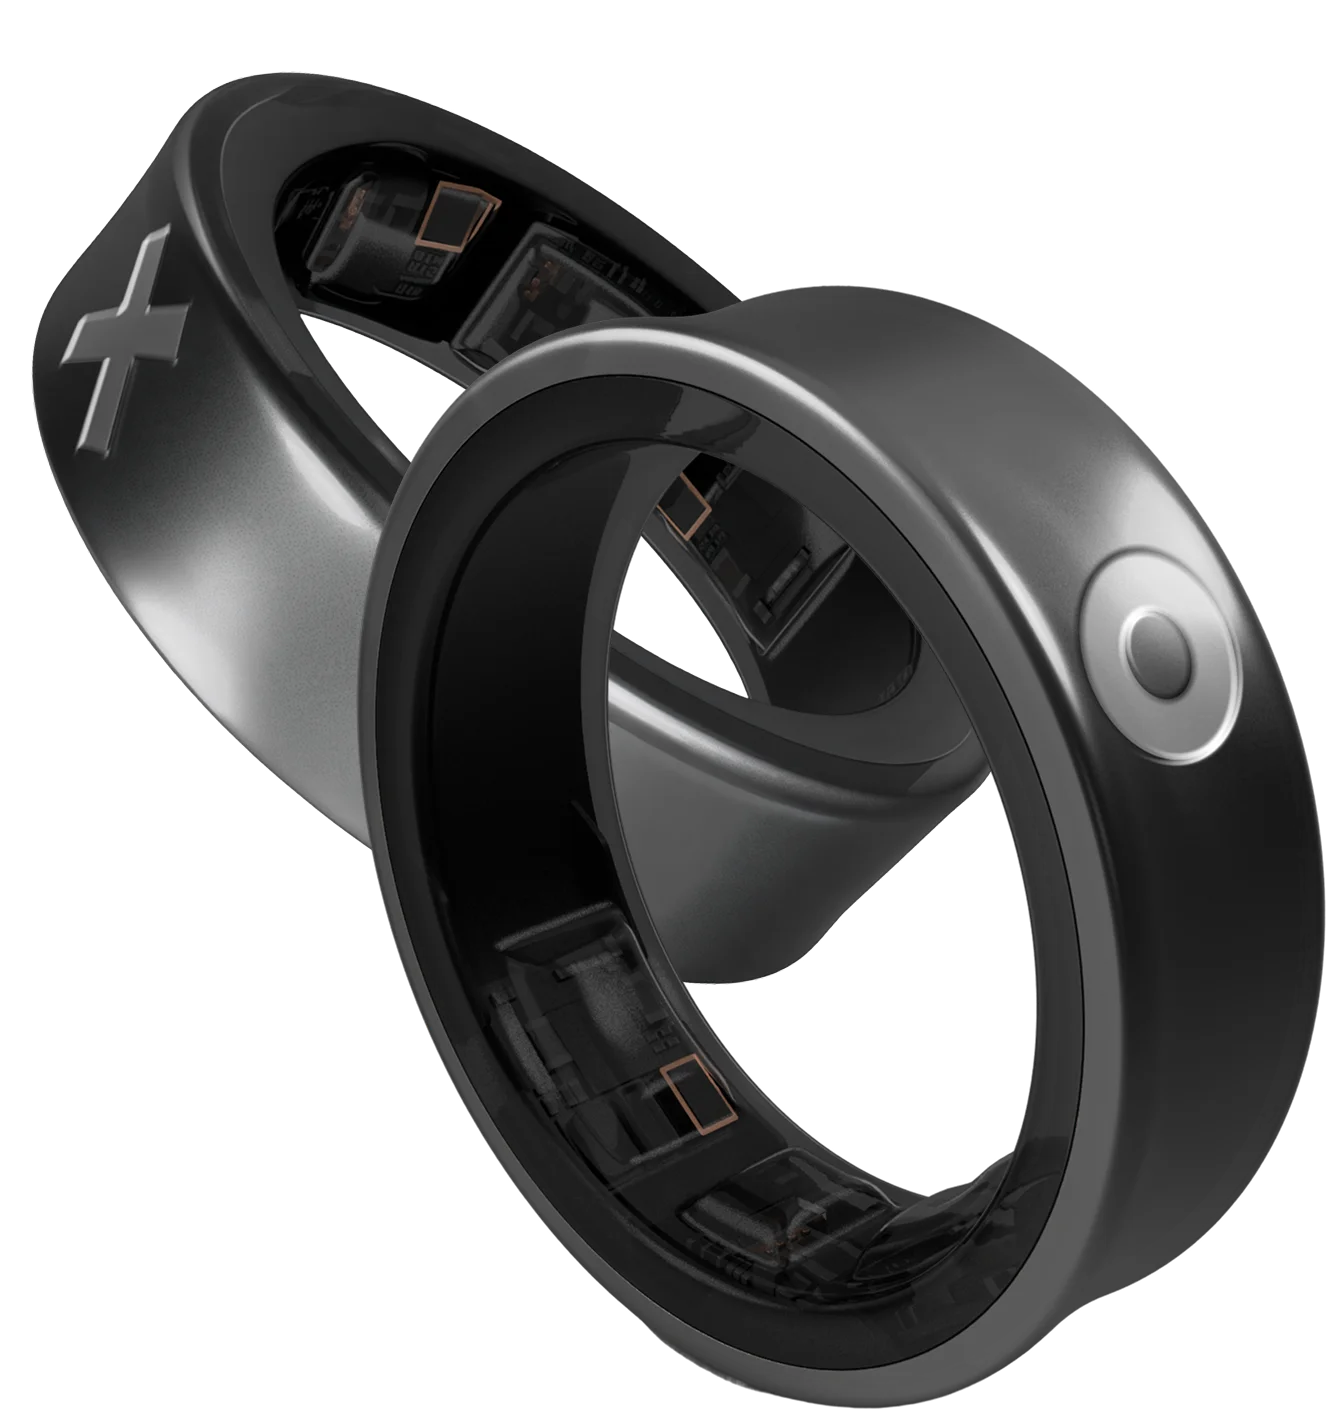
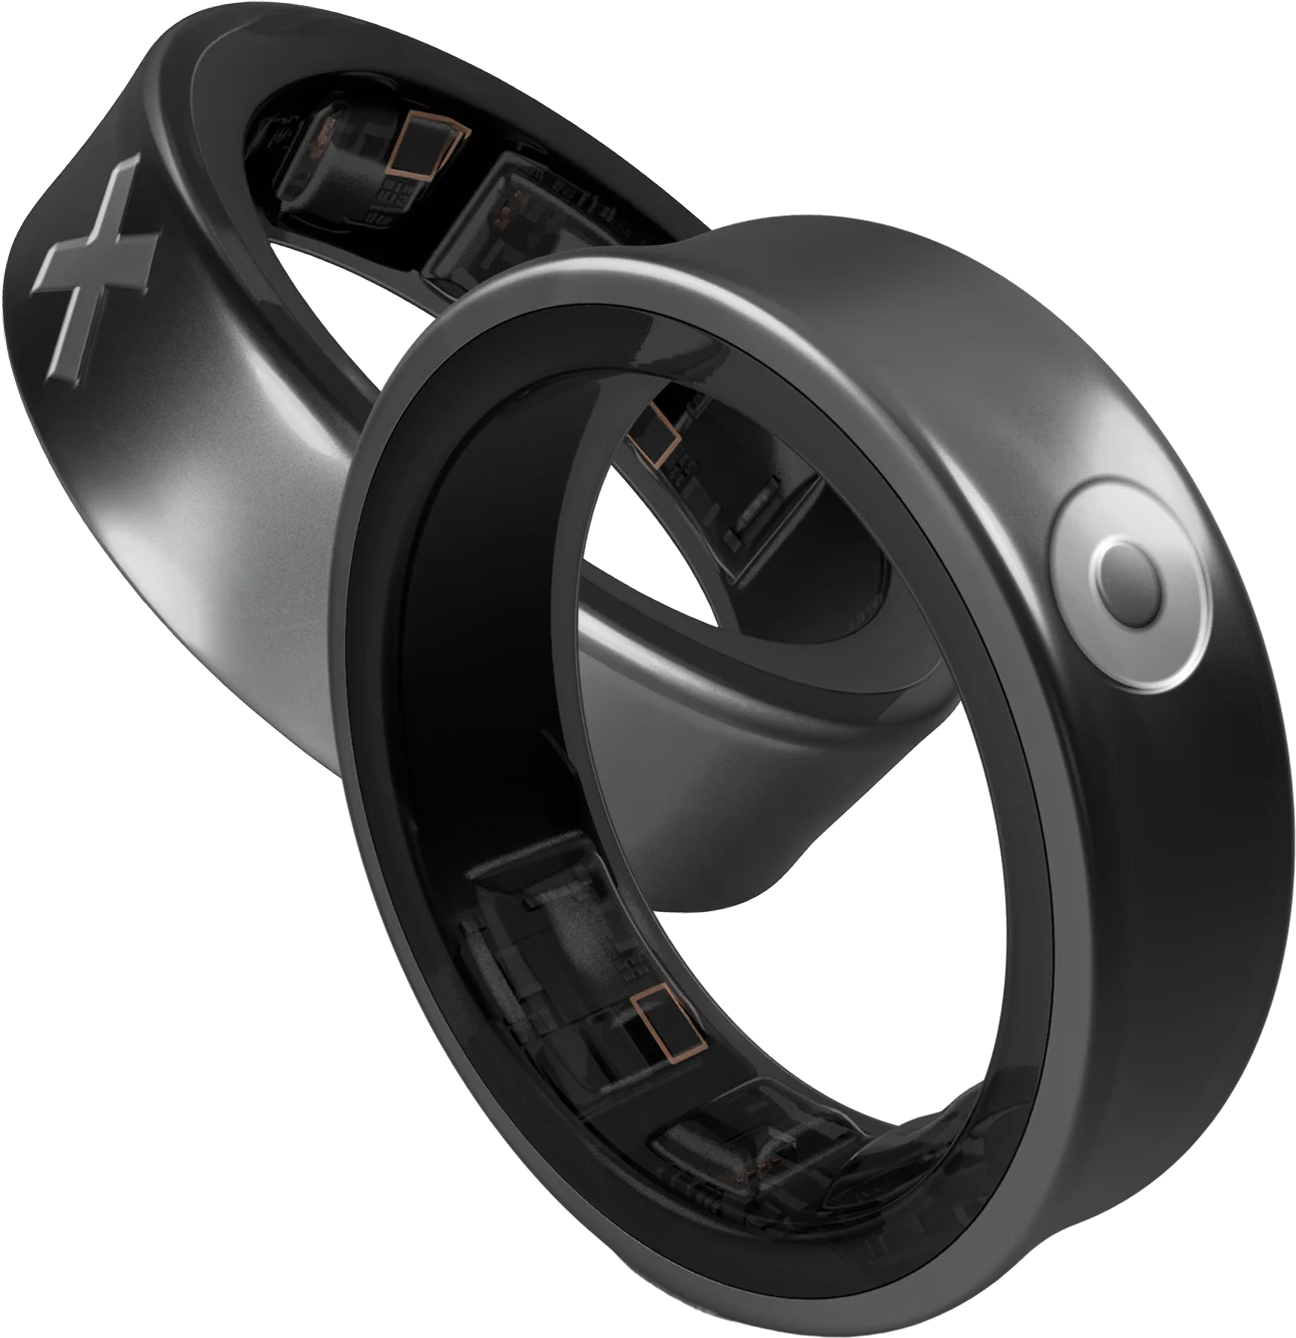
style: refine section title letter spacing and update ring-xo image.

diff --git a/src/styles/_typography.scss b/src/styles/_typography.scss
@@ -4,7 +4,7 @@
 .section-title {
 	@include fluid.fluid-type($type-section-title-min, $type-section-title-max, $fluid-viewport-min, $fluid-viewport-max);
 	font-weight: 800;
-	letter-spacing: -0.04em;
+	letter-spacing: -0.025em;
 	line-height: 1.2;
 }
 
